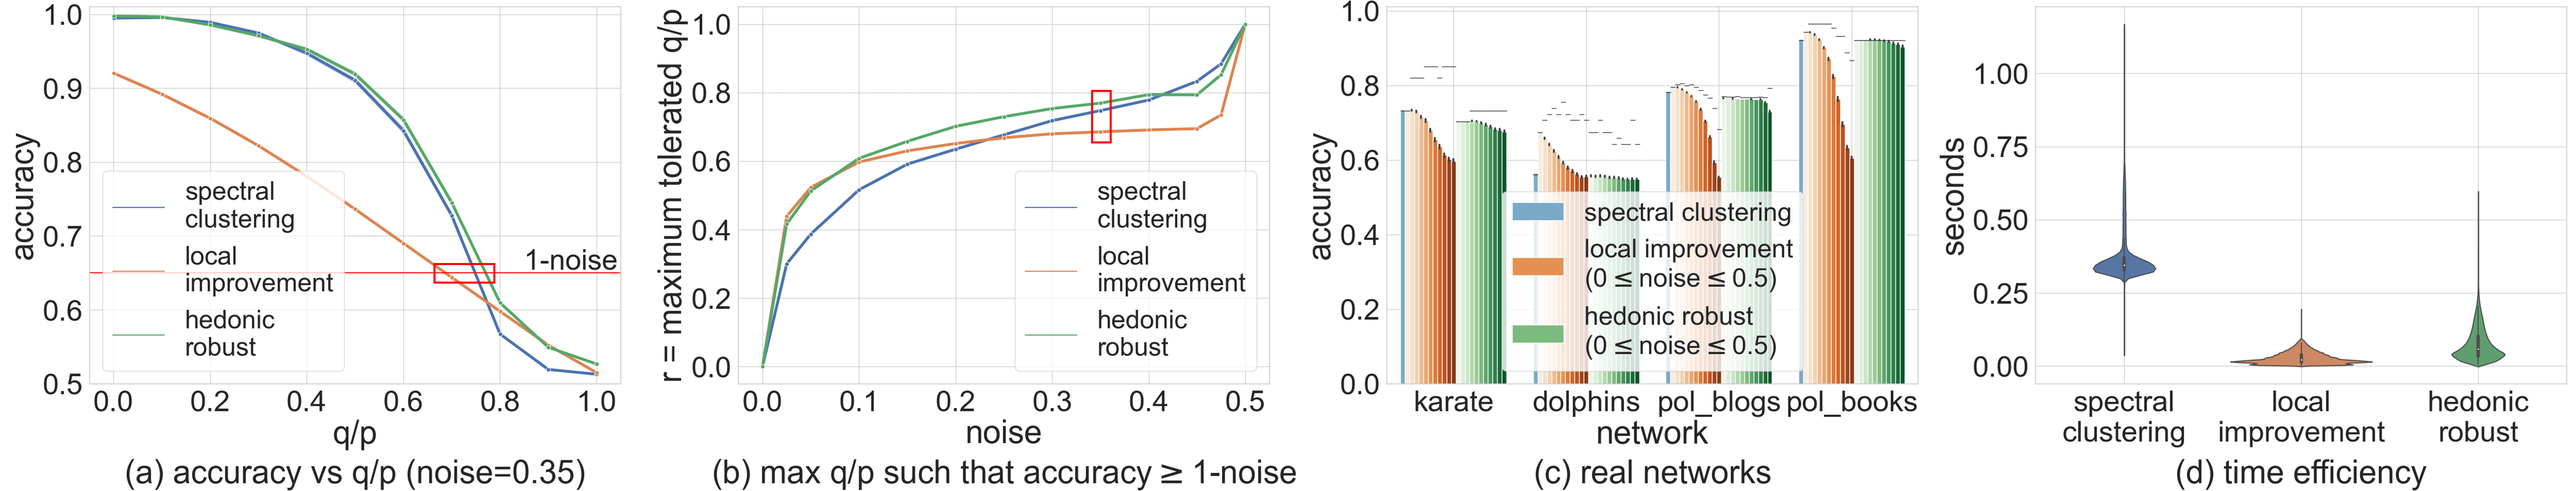
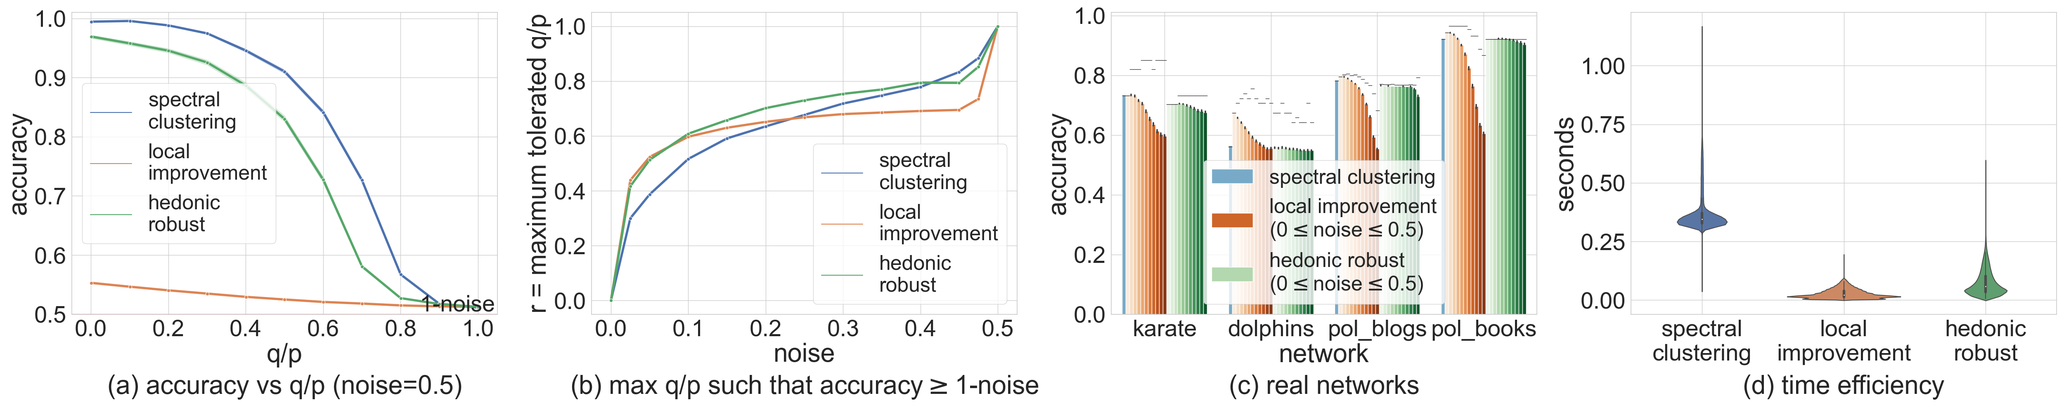
padronize gif

diff --git a/fig1_plot.py b/fig1_plot.py
@@ -76,7 +76,10 @@ def get_ax(font_size=45, n_cols=4, width=50):
 	matplotlib.rc('ytick', labelsize=font_size*.9)
 	return plt.subplots(nrows=1, ncols=n_cols, figsize=(width,10)) # num=None , dpi=250 , figsize=(7.8*4, 6.3)
 
-def save_plot(ax, title='no title', x_label='', y_label='', f_name='', font_size=45, n_col=1, labels_handles=None, has_legend=True):
+def save_plot(ax, title='no title', x_label='', y_label='', f_name='',
+		font_size=45, n_col=1, labels_handles=None, has_legend=True,
+		leg_loc=0, title_loc='center', title_y=-.275):
+
 	handles, labels = ax.get_legend_handles_labels()
 	if labels_handles is None:
 		handles, labels = handles[1:], labels[1:]
@@ -84,8 +87,8 @@ def save_plot(ax, title='no title', x_label='', y_label='', f_name='', font_size
 		handles = [handles[i] for key, i in labels_handles.items()]
 		labels  = list(labels_handles)
 	if has_legend:
-		ax.legend(fontsize=font_size*.8, ncol=n_col, handles=handles, labels=labels, loc=0) # loc='lower left' or 0
-	ax.set_title(title, fontsize=font_size, y=-.275) # 
+		ax.legend(fontsize=font_size*.8, ncol=n_col, handles=handles, labels=labels, loc=leg_loc)
+	ax.set_title(title, fontsize=font_size, loc=title_loc, y=title_y)
 	ax.set_xlabel(x_label, fontsize=font_size)
 	ax.set_ylabel(y_label, fontsize=font_size)
 	ax.grid(True)
@@ -96,11 +99,12 @@ def save_plot(ax, title='no title', x_label='', y_label='', f_name='', font_size
 def generate_noises_plot():
 	for noise_graph, data in dfs_noise.items():
 		fig, ax = get_ax(n_cols=1, width=12.5)
-		ax.set_ylim(.5,1.01)
+		ax.set_ylim(.499,1.01)
 		g = sns.lineplot(x="q/p", y="accuracy", hue="algorithm", data=data, marker='o', linewidth=4, ax=ax) # , style="event"
 		ax.axhline(1-noise_graph, c='red')
 		# ax.annotate('1-noise', (.85, 1.005-noise_graph), fontsize=40)
-		save_plot(ax, title=f'(a) accuracy vs q/p (noise={round(noise_graph,3)})', x_label='q/p', y_label='accuracy', f_name=f'{file_name_prefix}_n{round(noise_graph,3)}')
+		noise_name = str(round(noise_graph,3))+'00000000'
+		save_plot(ax, title=f'noise={noise_name[:5]}', x_label='q/p', y_label='accuracy', f_name=f'{file_name_prefix}_n{round(noise_graph,3)}', leg_loc='lower left', title_loc='right', title_y=.9)
 		plt.tight_layout()
 		fig.savefig(create_noises_plot_dir(f'noise_{noise_graph}.png'))
 		# break
@@ -111,6 +115,9 @@ def generate_gif():
 	frames = []
 	folder = './outputs/noises/plots/'
 	imgs = [png for png in os.listdir(folder) if png[-3:] == 'png'] # get_all_files()#glob.glob('.outputs/noises/*.png')
+	imgs = [(img, eval(img[6:-4])) for img in imgs]
+	imgs.sort(key= lambda x: x[1])
+	imgs = [img[0] for img in imgs]
 	for i in imgs:
 		new_frame = Image.open(folder+i)
 		frames.append(new_frame)
